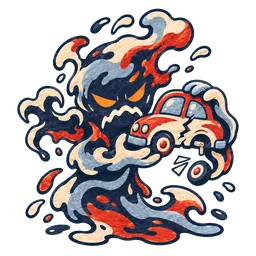
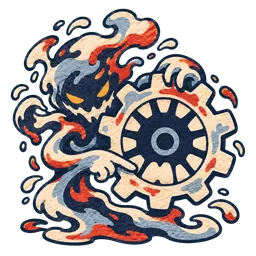
1〜3区で意味の近い語と共有していた絵を、先頭の語だけの意味に描き直し。v=108
Claude-Session: https://claude.ai/code/session_01NxsVqWd6E8wULWa2eDL34e

diff --git a/products/word-guild/sw.js b/products/word-guild/sw.js
@@ -1,6 +1,6 @@
-const VERSION = '3a558530';
+const VERSION = 'e6d2bf1b';
 const PRECACHE = ["./album.css","./app.mjs","./art/atenashi.webp","./art/body-action.webp","./art/body-body.webp","./art/body-doc.webp","./art/body-food.webp","./art/body-goods.webp","./art/body-mind.webp","./art/body-money.webp","./art/body-move.webp","./art/body-nature.webp","./art/body-number.webp","./art/body-person.webp","./art/body-place.webp","./art/body-state.webp","./art/body-time.webp","./art/body-tool.webp","./art/body-work.webp","./art/btn-album.webp","./art/btn-letter.webp","./art/btn-settings.webp","./art/btn-title.webp","./art/fuurou-normal.webp","./art/fuurou-stamp.webp","./art/gate-0-door-l.webp","./art/gate-0-door-r.webp","./art/gate-0-door.webp","./art/gate-0.webp","./art/gate-1-door-l.webp","./art/gate-1-door-r.webp","./art/gate-1-door.webp","./art/gate-1.webp","./art/gate-2-door-l.webp","./art/gate-2-door-r.webp","./art/gate-2-door.webp","./art/gate-2.webp","./art/gate-3-door-l.webp","./art/gate-3-door-r.webp","./art/gate-3-door.webp","./art/gate-3.webp","./art/gate-4-door-l.webp","./art/gate-4-door-r.webp","./art/gate-4-door.webp","./art/gate-4.webp","./art/gate-5-door-l.webp","./art/gate-5-door-r.webp","./art/gate-5-door.webp","./art/gate-5.webp","./art/gate-6-door-l.webp","./art/gate-6-door-r.webp","./art/gate-6-door.webp","./art/gate-6.webp","./art/hatori-normal.webp","./art/hatori-smile.webp","./art/hokoridama.webp","./art/house-1.webp","./art/house-10.webp","./art/house-11.webp","./art/house-12.webp","./art/house-13.webp","./art/house-14.webp","./art/house-15.webp","./art/house-16.webp","./art/house-17.webp","./art/house-18.webp","./art/house-19.webp","./art/house-2.webp","./art/house-20.webp","./art/house-21.webp","./art/house-22.webp","./art/house-23.webp","./art/house-24.webp","./art/house-25.webp","./art/house-26.webp","./art/house-27.webp","./art/house-28.webp","./art/house-29.webp","./art/house-3.webp","./art/house-30.webp","./art/house-31.webp","./art/house-32.webp","./art/house-33.webp","./art/house-34.webp","./art/house-35.webp","./art/house-36.webp","./art/house-37.webp","./art/house-38.webp","./art/house-39.webp","./art/house-4.webp","./art/house-40.webp","./art/house-41.webp","./art/house-42.webp","./art/house-43.webp","./art/house-44.webp","./art/house-45.webp","./art/house-46.webp","./art/house-47.webp","./art/house-48.webp","./art/house-49.webp","./art/house-5.webp","./art/house-50.webp","./art/house-51.webp","./art/house-52.webp","./art/house-53.webp","./art/house-54.webp","./art/house-55.webp","./art/house-56.webp","./art/house-6.webp","./art/house-7.webp","./art/house-8.webp","./art/house-9.webp","./art/icon-180.png","./art/icon-192.png","./art/icon-512.png","./art/keshikasu.webp","./art/key-visual.webp","./art/lighthouse.webp","./art/map-art.mjs","./art/nijimi.webp","./art/open-2.webp","./art/open-3.webp","./art/oshimi.webp","./art/post-front.webp","./art/post-office.webp","./art/road/road-0.webp","./art/road/road-1.webp","./art/road/road-2.webp","./art/road/road-3.webp","./art/road/road-4.webp","./art/road/road-5.webp","./art/road/road-6.webp","./art/shimi.webp","./art/tsumugi-joy.webp","./art/tsumugi-normal.webp","./art/ward-1.webp","./art/ward-2.webp","./art/ward-3.webp","./art/ward-4.webp","./art/ward-5.webp","./art/ward-6.webp","./data/chara.json","./data/house-doors.json","./data/rare.json","./data/scenes.json","./data/stage-names.json","./data/story-allow.json","./data/story-ps.json","./data/story.json","./data/wordart.json","./data/words.json","./guild/album.mjs","./guild/art.mjs","./guild/board.mjs","./guild/chapters.mjs","./guild/chara-svg.mjs","./guild/chara.mjs","./guild/cinema.mjs","./guild/credits.mjs","./guild/daily.mjs","./guild/dom.mjs","./guild/library.mjs","./guild/map.mjs","./guild/music.mjs","./guild/pwa.mjs","./guild/quest.mjs","./guild/rare.mjs","./guild/rng.mjs","./guild/settings.mjs","./guild/srs.mjs","./guild/stages.mjs","./guild/store.mjs","./guild/story.mjs","./guild/trace.mjs","./guild/view.mjs","./guild/words.mjs","./index.html","./letter.css","./manifest.webmanifest","./map.css","./style.css"];
-const WORD_VERSION = '025274d2';
+const WORD_VERSION = 'ec8fbff3';
 const CACHE = `wg-shell-${VERSION}`;
 const WORD_CACHE = `wg-word-${WORD_VERSION}`; // 単語の絵は出たときに保存（版の更新で全部を読み直さない）
 const shellURL = new URL('./index.html', self.location.href).href;

diff --git a/products/word-guild/index.html b/products/word-guild/index.html
@@ -1,2 +1,2 @@
 <!doctype html>
-<html lang="ja"><head><meta charset="utf-8"><meta name="viewport" content="width=device-width,initial-scale=1,viewport-fit=cover"><meta name="theme-color" content="#1f2a44"><meta name="apple-mobile-web-app-capable" content="yes"><meta name="apple-mobile-web-app-title" content="霧晴れ郵便局"><link rel="manifest" href="manifest.webmanifest"><link id="apple-icon" rel="apple-touch-icon" href="art/icon-180.png"><link rel="stylesheet" href="style.css?v=107"><title>霧晴れ郵便局</title></head><body><main><section id="view" aria-label="ゲーム画面"></section><div id="status" role="status"></div></main><script type="module" src="app.mjs?v=107"></script></body></html>
+<html lang="ja"><head><meta charset="utf-8"><meta name="viewport" content="width=device-width,initial-scale=1,viewport-fit=cover"><meta name="theme-color" content="#1f2a44"><meta name="apple-mobile-web-app-capable" content="yes"><meta name="apple-mobile-web-app-title" content="霧晴れ郵便局"><link rel="manifest" href="manifest.webmanifest"><link id="apple-icon" rel="apple-touch-icon" href="art/icon-180.png"><link rel="stylesheet" href="style.css?v=109"><title>霧晴れ郵便局</title></head><body><main><section id="view" aria-label="ゲーム画面"></section><div id="status" role="status"></div></main><script type="module" src="app.mjs?v=109"></script></body></html>
